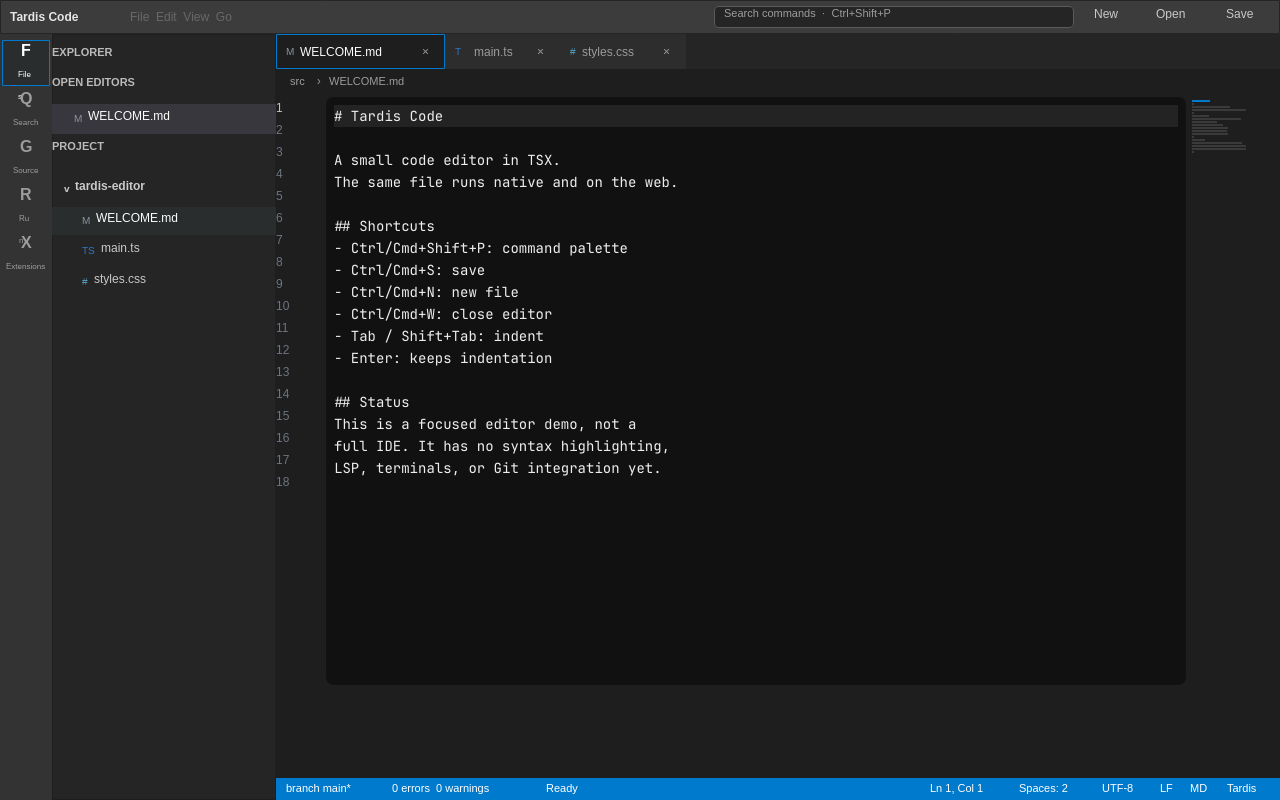
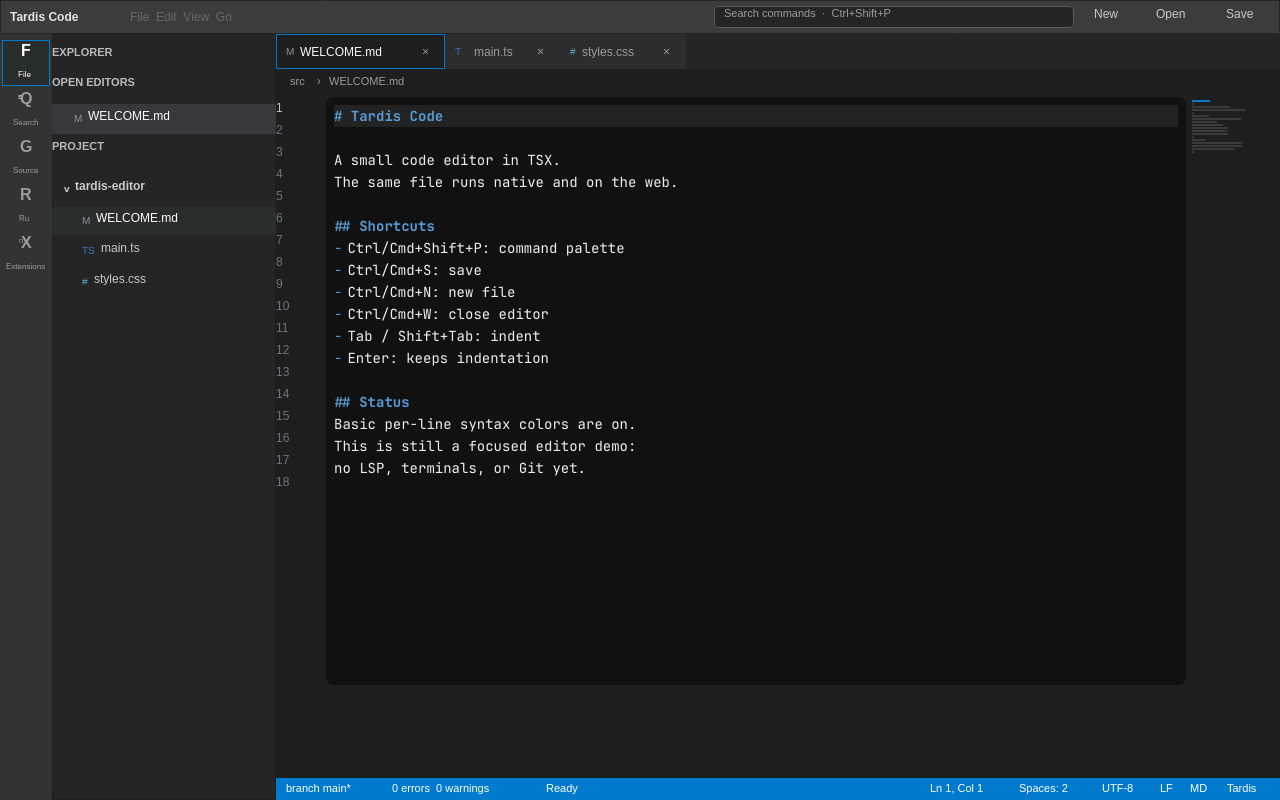
docs: refresh editor screenshot and size

Changed region(s): [[0.25, 0.2812, 0.5, 0.4688], [0.25, 0.5, 0.5, 0.5938], [0.2812, 0.125, 0.3438, 0.1562]]

diff --git a/docs/EDITORS.md b/docs/EDITORS.md
@@ -14,7 +14,7 @@ Zed 1.30.2 is the official Linux build. Tardis Code is `examples/editor`.
 | Startup to first changed pixels (median of 3) | **410 ms** | 624 ms |
 | Resident memory after 8 s (median of 3) | **45.5 MiB** | 363 MiB |
 | Runtime executable | **10.5 MB** | 220 MB |
-| Installed app/bundle | **10.6 MB** (binary + 87 KB app bundle) | 229 MB |
+| Installed app/bundle | **10.6 MB** (binary + 93 KB app bundle) | 229 MB |
 | Runs on web | **yes, same TSX file** | no (desktop only) |
 
 Raw startup samples: Tardis 410 / 432 / 400 ms; Zed 624 / 626 / 589 ms.
